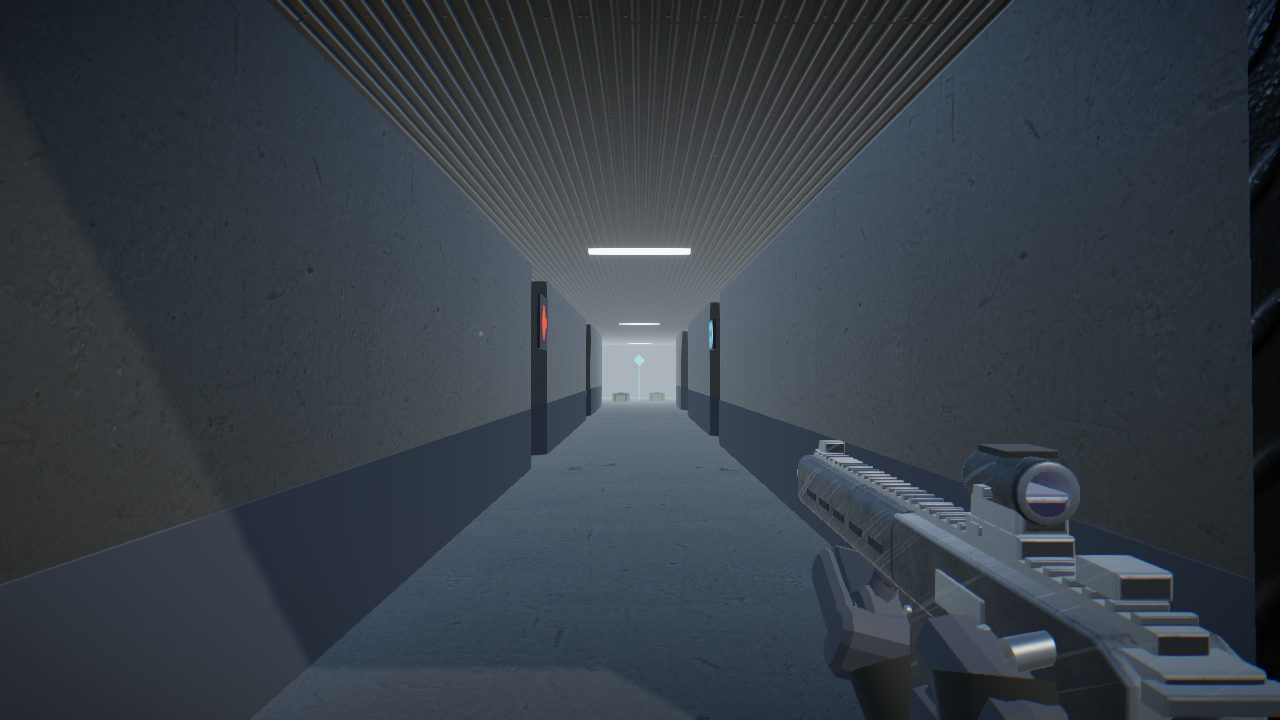
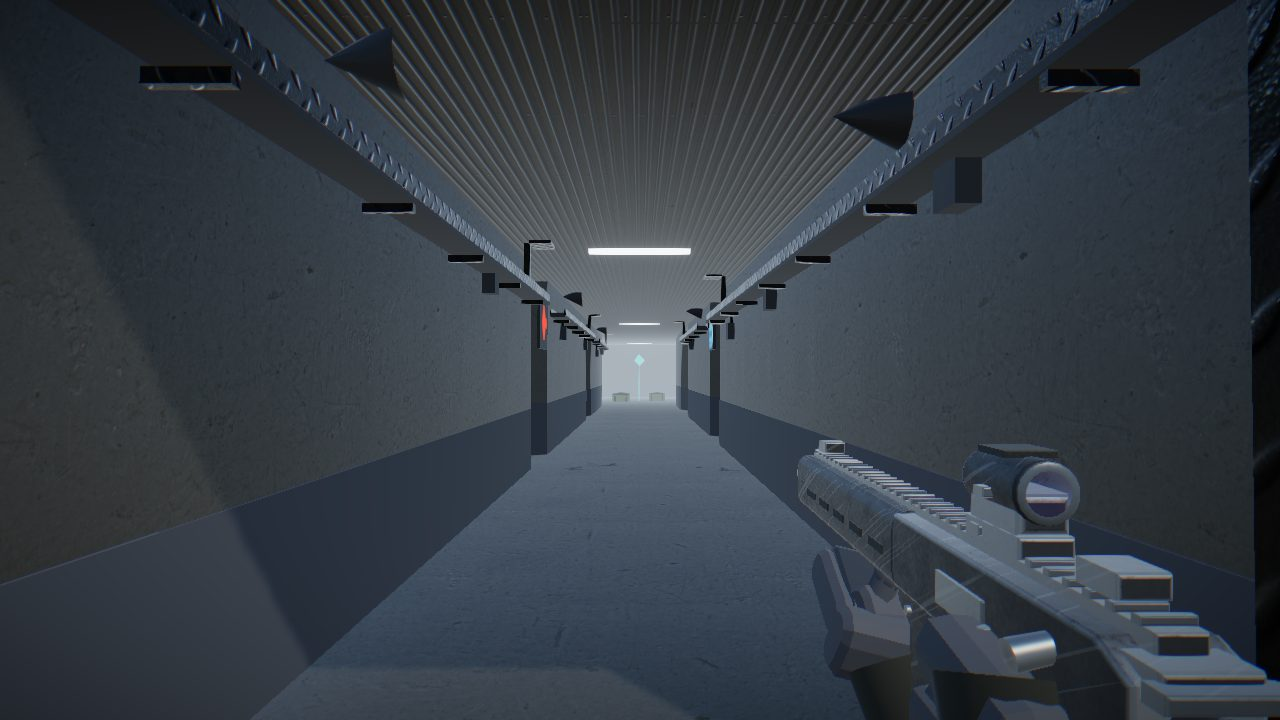
Stage D: Blacksite services its corridors; Dustline banks sand at its walls
- Blacksite: cable trays, conduit drops, junction boxes, horns and bracket floodlights
  down both sides of the main corridor and on the perimeter wall's courtyard faces,
  from the existing wall-services kit (above head height, footprint rule tested).
  Merged into the kit's per-material meshes: 292 -> 294 draws.
- Dustline: windblown sand banked along container and warehouse bases as soft ground
  decals on the wear layer (no geometry, no collision). A kit-slab version read as
  grey planks in the captures and was dropped. Tested: drifts run along real walls
  and never cover a pickup, objective, cargo case or the extraction zone.

960 web tests pass.

diff --git a/apps/web/src/engine/scene/SiteDressing.tsx b/apps/web/src/engine/scene/SiteDressing.tsx
@@ -468,6 +468,42 @@ function Signs({ level, holder }: { level: LevelDef; holder: string | null }) {
 
 // ── Ground wear ─────────────────────────────────────────────────────────────
 
+/**
+ * Where windblown sand banks against Dustline's structures: along each container and
+ * the warehouse's outer walls, on one or both faces, never over a spot the player
+ * must find (a pickup, an objective point, a cargo case, the extraction zone).
+ * Ground decals only: no collision, nothing to trip on.
+ */
+export function sandBanks(level: LevelDef, r: () => number): { x: number; z: number; s: number; l: number; ry: number }[] {
+  if (level.id !== 'dustline_depot') return [];
+  const f = level.field;
+  const clear: [number, number, number][] = [
+    ...Object.values(level.points).flatMap((p) => (Array.isArray(p[0]) ? (p as [number, number][]) : [p as [number, number]])).map(([x, z]) => [x, z, 1] as [number, number, number]),
+    ...[...f.cases, ...f.ammo, ...f.med, f.seized].map(([x, z]) => [x, z, 1] as [number, number, number]),
+    [f.exfil.pos[0], f.exfil.pos[1], f.exfil.radius + 0.5],
+  ];
+  const out: { x: number; z: number; s: number; l: number; ry: number }[] = [];
+  for (const b of level.walls) {
+    let faces: [number, number][] = [];
+    if (b.kind === 'container') faces = b.d > b.w ? [[1, 0], [-1, 0]] : [[0, 1], [0, -1]];
+    else if (b.kind === 'warehouse') faces = [b.d > b.w ? [b.x < -16 ? -1 : 1, 0] : [0, b.z > -36 ? 1 : -1]];
+    for (const [nx, nz] of faces) {
+      if (r() < 0.3) continue; // not every face catches the wind
+      const alongZ = nx !== 0;
+      const len = (alongZ ? b.d : b.w) * (0.75 + r() * 0.2);
+      if (len < 2.5) continue;
+      const depth = 1.4 + r() * 1.1;
+      const off = (alongZ ? b.w : b.d) / 2 + depth * 0.38;
+      const x = b.x + nx * off, z = b.z + nz * off;
+      const hx = alongZ ? depth / 2 : len / 2, hz = alongZ ? len / 2 : depth / 2;
+      if (clear.some(([px, pz, rad]) => Math.hypot(Math.max(0, Math.abs(px - x) - hx), Math.max(0, Math.abs(pz - z) - hz)) < rad)) continue;
+      // The decal's long axis is its local z: along a wall that runs in x, turn it.
+      out.push({ x, z, s: depth, l: len, ry: alongZ ? 0 : Math.PI / 2 });
+    }
+  }
+  return out;
+}
+
 function Wear({ level, phase }: { level: LevelDef; phase: Phase }) {
   const sets = useMemo(() => groundWear(level.id, phase).map((w, k) => {
     const r = rng(1000 + k * 77 + level.id.length);
@@ -480,12 +516,17 @@ function Wear({ level, phase }: { level: LevelDef; phase: Phase }) {
       color: puddle ? '#6a7682' : '#ffffff', polygonOffset: true, polygonOffsetFactor: -1, polygonOffsetUnits: -1,
     });
     const items: { x: number; z: number; s: number; l: number; ry: number }[] = [];
-    for (let i = 0; i < w.count; i++) {
+    const banks = w.kind === 'sand' ? sandBanks(level, r) : [];
+    for (let i = 0; i < Math.max(w.count, banks.length); i++) {
       if (w.kind === 'tracks' && roads.length) {
         const rd = roads[i % roads.length];
         items.push({ x: rd.x + (r() - 0.5) * (rd.w ?? 6) * 0.5, z: rd.z + (r() - 0.5) * (rd.d ?? 30) * 0.8, s: 2.2, l: 9 + r() * 6, ry: (r() - 0.5) * 0.12 });
+      } else if (w.kind === 'sand' && i < banks.length) {
+        // A drift banked along the base of a real wall: long, a couple of metres
+        // deep, its near edge tucked under the wall's face.
+        items.push(banks[i]);
       } else if (w.kind === 'sand') {
-        // drifts pile against the fence lines and walls at the edges
+        // the rest pile against the fence lines at the edges
         const edge = r() < 0.5;
         const x = edge ? (r() < 0.5 ? b.minX + 1 + r() * 4 : b.maxX - 1 - r() * 4) : b.minX + r() * (b.maxX - b.minX);
         const z = edge ? b.minZ + r() * (b.maxZ - b.minZ) : (r() < 0.5 ? b.minZ + 1 + r() * 4 : b.maxZ - 1 - r() * 4);
@@ -510,7 +551,8 @@ function WearSet({ mat, items, tall }: { mat: THREE.Material; items: { x: number
     items.forEach((it, i) => {
       o.position.set(it.x, 0.018 + i * 0.0004, it.z);
       o.rotation.set(0, it.ry, 0);
-      o.scale.set(it.s, 1, tall ? it.l : it.s);
+      // `l` > 1 is a long decal (tyre tracks, a drift along a wall); otherwise square.
+      o.scale.set(it.s, 1, tall || it.l > 1 ? it.l : it.s);
       o.updateMatrix();
       m.setMatrixAt(i, o.matrix);
     });

diff --git a/apps/web/src/engine/scene/__tests__/sandBanks.test.ts b/apps/web/src/engine/scene/__tests__/sandBanks.test.ts
@@ -1,0 +1,41 @@
+import { describe, expect, it } from 'vitest'
+import { sandBanks } from '../SiteDressing'
+import { LEVELS } from '../../fps/levels'
+
+// Seeded like the Wear layer: deterministic placements to check.
+const rng = (seed: number) => () => ((seed = (seed * 16807) % 2147483647) / 2147483647)
+
+describe('sand banked against Dustline walls', () => {
+  const level = LEVELS.dustline_depot
+  it('banks along real walls, long and narrow', () => {
+    for (const seed of [1, 7, 1077]) {
+      const banks = sandBanks(level, rng(seed))
+      expect(banks.length).toBeGreaterThan(4)
+      for (const b of banks) {
+        expect(b.l).toBeGreaterThan(b.s) // a drift runs along the wall
+        const nearWall = level.walls.some((w) => (w.kind === 'container' || w.kind === 'warehouse')
+          && Math.abs(b.x - w.x) <= w.w / 2 + b.s && Math.abs(b.z - w.z) <= w.d / 2 + b.s)
+        expect(nearWall).toBe(true)
+      }
+    }
+  })
+  it('never lies over a pickup, an objective, a cargo case or the extraction zone', () => {
+    const f = level.field
+    const spots: [number, number, number][] = [
+      ...Object.values(level.points).flatMap((p) => (Array.isArray(p[0]) ? (p as [number, number][]) : [p as [number, number]])).map(([x, z]) => [x, z, 0.8] as [number, number, number]),
+      ...[...f.cases, ...f.ammo, ...f.med, f.seized].map(([x, z]) => [x, z, 0.8] as [number, number, number]),
+      [f.exfil.pos[0], f.exfil.pos[1], f.exfil.radius],
+    ]
+    for (const seed of [1, 7, 1077, 4242]) {
+      for (const b of sandBanks(level, rng(seed))) {
+        const alongX = b.ry !== 0
+        const hx = (alongX ? b.l : b.s) / 2, hz = (alongX ? b.s : b.l) / 2
+        for (const [x, z, r] of spots) expect(Math.hypot(Math.max(0, Math.abs(x - b.x) - hx), Math.max(0, Math.abs(z - b.z) - hz))).toBeGreaterThanOrEqual(r)
+      }
+    }
+  })
+  it('only Dustline gets them', () => {
+    expect(sandBanks(LEVELS.blacksite, rng(1))).toEqual([])
+    expect(sandBanks(LEVELS.cinder_yard, rng(1))).toEqual([])
+  })
+})

diff --git a/apps/web/src/engine/scene/RefineryArt.tsx b/apps/web/src/engine/scene/RefineryArt.tsx
@@ -3,7 +3,7 @@
 import { useEffect, useMemo } from 'react';
 import * as THREE from 'three';
 import type { LevelDef } from '../fps/levels';
-import { buildColumn, buildFlareStack, buildLoadingArm, buildRackDetail, buildTank, buildWallServices, mergeKit, type KitGeometry, type KitMaterial } from './refineryKit';
+import { buildColumn, buildFlareStack, buildLoadingArm, buildRackDetail, buildTank, buildWallServices, mergeKit, type Face, type KitGeometry, type KitMaterial } from './refineryKit';
 
 /**
  * The plant on a site, built from the level's own colliders by `refineryKit`: every
@@ -35,6 +35,19 @@ export function buildSiteKit(level: LevelDef): KitGeometry[] {
     if (b.kind === 'tank') parts.push(buildTank({ x: b.x, z: b.z, size: b.w, height: b.h, stairCorner: stairCornerFor(b.x, b.z) }));
     else if (b.kind === 'column') parts.push(buildColumn({ x: b.x, z: b.z, size: b.w, height: b.h }));
     else if (b.kind === 'pipe_rack') parts.push(buildRackDetail({ x: b.x, z: b.z, w: b.w, d: b.d, h: b.h }));
+  }
+  if (level.id === 'blacksite') {
+    // A serviced facility: cable trays, conduit drops, horns and floodlights on the
+    // perimeter wall's courtyard faces and down both sides of the main corridor.
+    let seed = 11;
+    for (const w of level.walls) {
+      if (w.kind === 'concrete' && Math.max(w.w, w.d) >= 18) {
+        const face: Face = w.d > w.w ? (w.x < 0 ? '+x' : '-x') : (w.z > 0 ? '-z' : '+z');
+        parts.push(buildWallServices({ x: w.x, z: w.z, w: w.w, d: w.d, h: w.h, face }, seed++));
+      } else if (w.kind === 'interior' && Math.abs(Math.abs(w.x) - 2) < 0.01 && w.d >= 8) {
+        parts.push(buildWallServices({ x: w.x, z: w.z, w: w.w, d: w.d, h: w.h, face: w.x < 0 ? '+x' : '-x' }, seed++));
+      }
+    }
   }
   if (level.id === 'cinder_yard') {
     for (const a of level.art) if (a.kind === 'stack') parts.push(buildFlareStack({ x: a.x, z: a.z, height: a.h ?? 22 }));

diff --git a/apps/web/src/engine/scene/refineryKit.ts b/apps/web/src/engine/scene/refineryKit.ts
@@ -384,6 +384,9 @@ export function buildWallServices(w: WallSpec, seed = 1): KitGeometry {
   return out;
 }
 
+/** Which face of a box a wall-mounted module hangs on. */
+export type Face = '+x' | '-x' | '+z' | '-z';
+
 /** Merge a list of kit geometries into one BufferGeometry per material. */
 export function mergeKit(parts: KitGeometry[]): Partial<Record<KitMaterial, THREE.BufferGeometry>> {
   const by: KitGeometry = {};

diff --git a/docs/contract-zero/visual-renaissance/REPORT.md b/docs/contract-zero/visual-renaissance/REPORT.md
@@ -57,6 +57,23 @@ The gameplay rule is tested (`refineryKit.test.ts`): nothing below head height l
 its collider's footprint, so no invisible walls and no walking through geometry;
 module triangle budgets are pinned.
 
+## Stage D: Dustline and Blacksite identity
+
+The same kit pipeline, a different prop language per site, merged into the existing
+per-material meshes (Dustline 286 → 286 draws, Blacksite 292 → 294).
+
+- **Blacksite, a serviced facility.** Cable trays with brackets, conduit drops to
+  junction boxes, horn speakers and bracket floodlights run down both sides of the
+  main corridor and along the perimeter wall's courtyard faces, all above head height
+  (`buildWallServices`, the footprint rule tested). The corridor now recedes toward
+  the vault as a working building rather than a grey tube, at day and at night.
+- **Dustline, exposure.** Windblown sand banks along the bases of the containers and
+  the warehouse's outward walls (`sandBanks` in `SiteDressing.tsx`): soft ground
+  decals on the wear layer, not geometry, so there is nothing to trip on. A first
+  attempt with leaning kit slabs read as grey planks in the captures and was removed.
+  Tested: banks run along real walls and never lie over a pickup, objective, cargo
+  case or the extraction zone.
+
 ## Stage E (partial): enemies and the HUD
 
 - Enemy rifles get the same `finishWeapon` surface pass as the player's weapons.
@@ -81,8 +98,8 @@ machines down, and the Low/touch tiers keep the primitive stand-ins.
 
 ## Remaining limitations
 
-- Dustline and Blacksite have not had their Stage D identity pass on this branch
-  (they keep the earlier environment work plus the foundation improvements here).
+- Stage D is a detail pass, not a re-layout: Dustline and Blacksite keep their
+  geometry; the sand drifts are subtle at gameplay distance.
 - Enemy animation set is unchanged (Mixamo locomotion; no new hit-reaction blending).
 - The viewmodel hands are posed, not skinned-animated; the reload is staged motion.
 - Real-device frame times are still unmeasured (M2 + emulation only).
